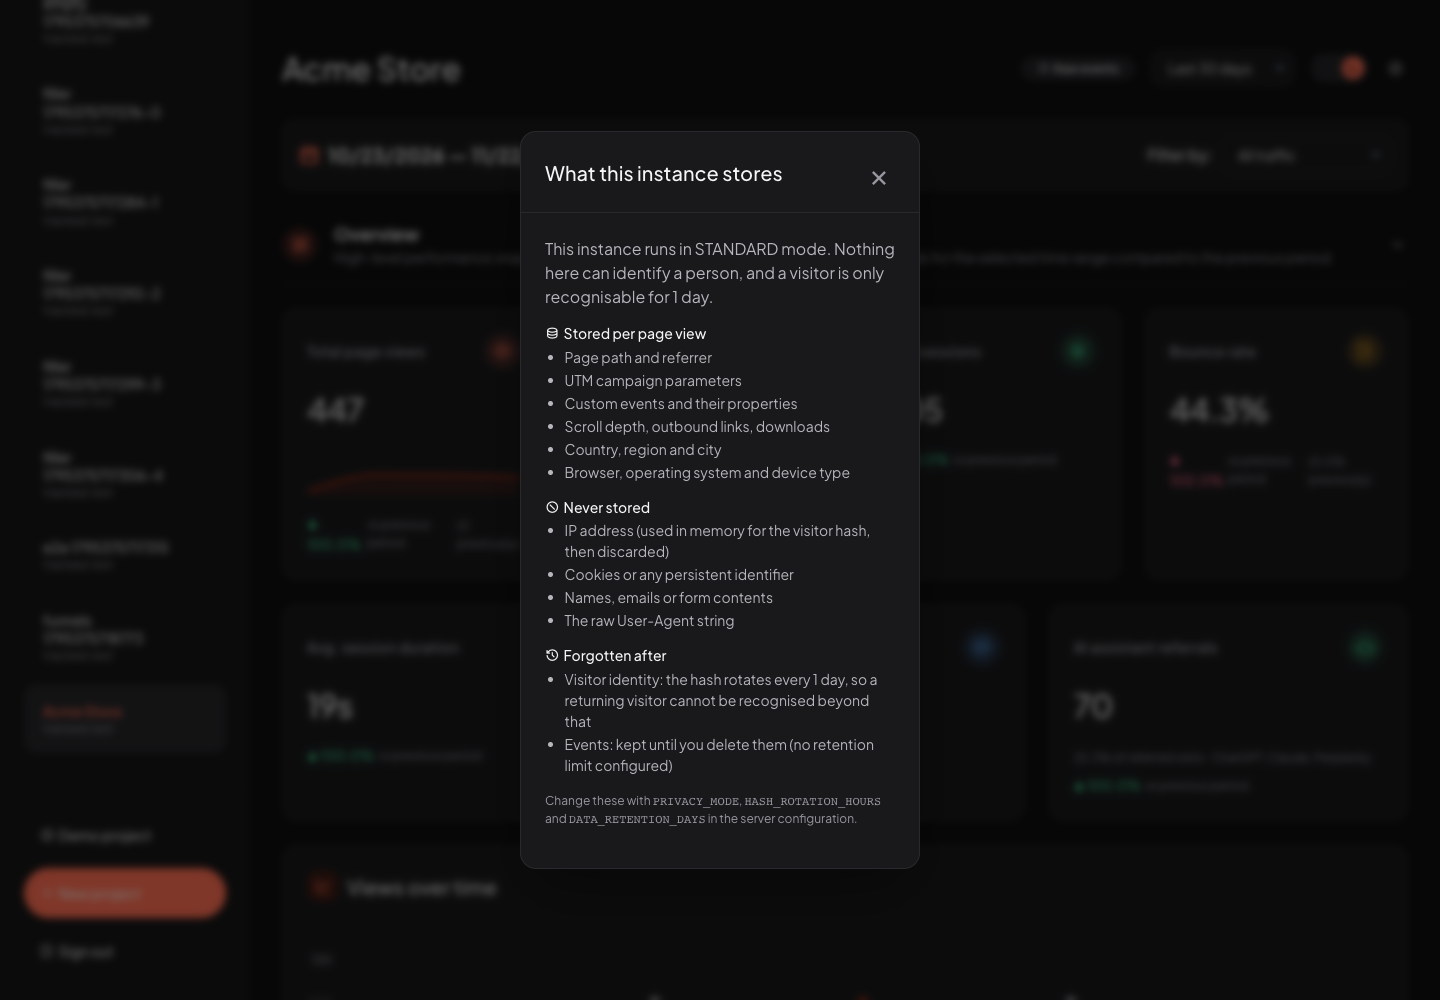
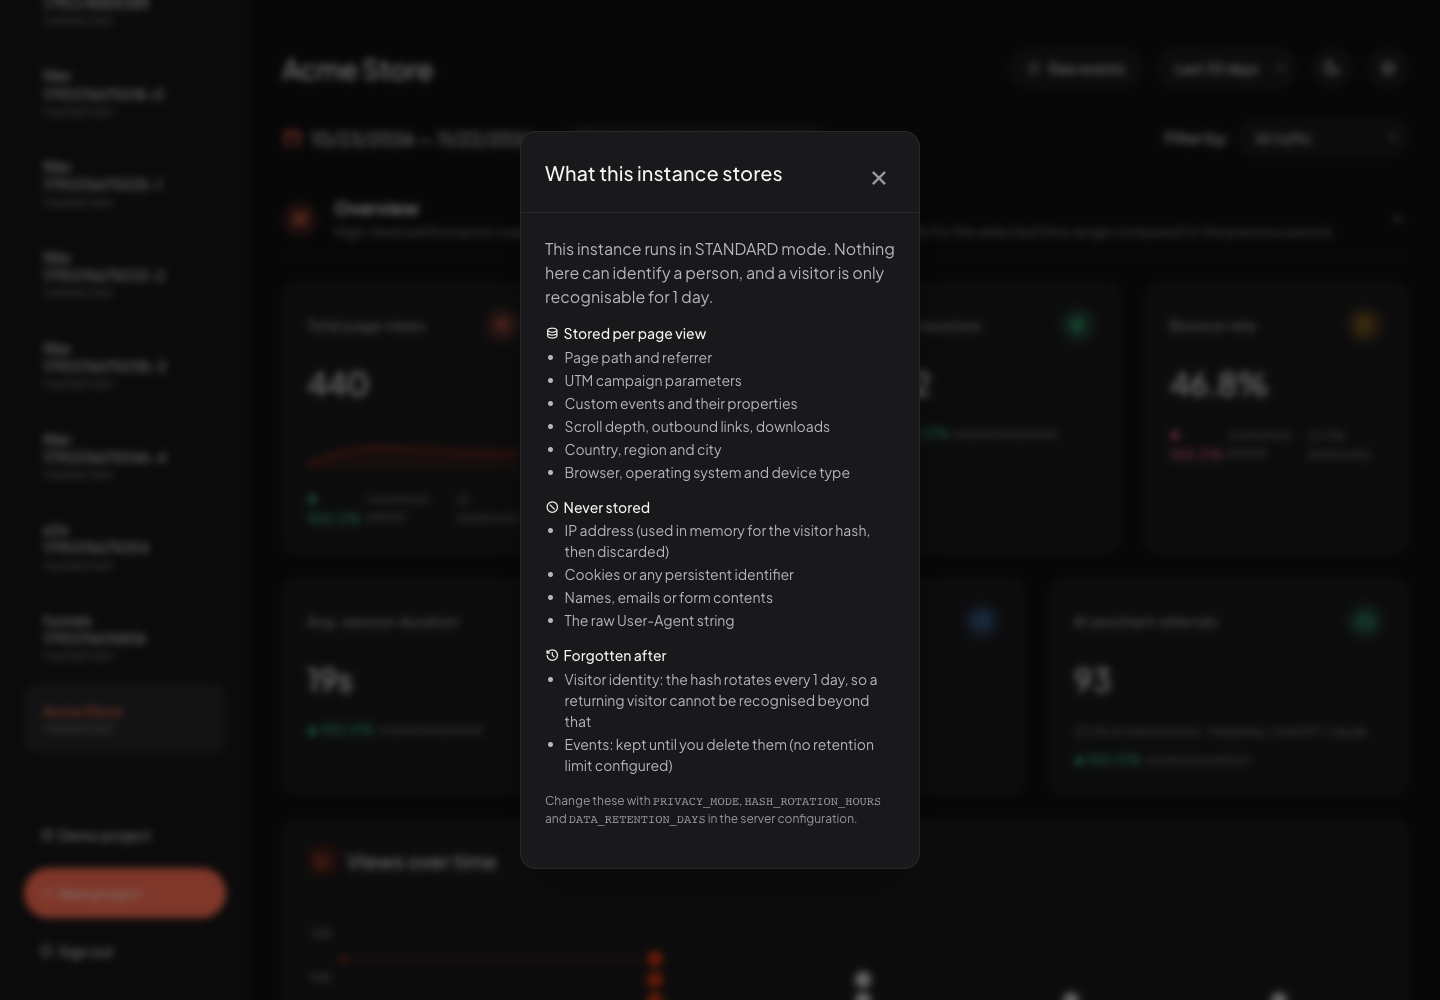
Restyle the dashboard top bar
Raw events and the time range are pills, the theme switch and Settings
are round icon buttons of one height, and the date range and filter sit
under the bar as a plain row. On a phone the controls wrap under the
project name, which now clears the menu button.

Claude-Session: https://claude.ai/code/session_01GuupkTZhZNqQKFXJpTZdVo

diff --git a/src/main/resources/static/css/components.css b/src/main/resources/static/css/components.css
@@ -2984,6 +2984,95 @@ tbody tr {
 }
 
 /* ============================================
+   TOP BAR
+   The project title on the left; on the right a row of controls of one height: pills for the
+   ones with a label, circles for the ones that are only an icon.
+   ============================================ */
+
+.dashboard-header h1 {
+  font-size: var(--font-size-2xl-plus);
+  letter-spacing: var(--letter-spacing-snug);
+}
+
+.dashboard-header .select,
+.dashboard-header .btn-secondary,
+.dashboard-header .btn-icon,
+.dashboard-header .theme-toggle {
+  height: var(--control-height);
+  border: 1px solid var(--color-border);
+  background-color: var(--color-bg-secondary);
+  color: var(--color-text-primary);
+  transition: background-color var(--transition-fast), border-color var(--transition-fast);
+}
+
+.dashboard-header .select,
+.dashboard-header .btn-secondary {
+  border-radius: var(--radius-full);
+  padding-top: 0;
+  padding-bottom: 0;
+  font-size: var(--font-size-sm);
+  font-weight: var(--font-weight-medium);
+}
+
+.dashboard-header .btn-secondary { padding-left: var(--spacing-md); padding-right: var(--spacing-md); gap: var(--spacing-sm); }
+.dashboard-header .select { padding-left: var(--spacing-md); }
+
+.dashboard-header .btn-icon,
+.dashboard-header .theme-toggle {
+  width: var(--control-height);
+  border-radius: var(--radius-circle);
+  font-size: var(--font-size-lg);
+}
+
+.dashboard-header .select:hover,
+.dashboard-header .btn-secondary:hover:not(:disabled),
+.dashboard-header .btn-icon:hover,
+.dashboard-header .theme-toggle:hover {
+  background-color: var(--color-bg-tertiary);
+  border-color: var(--color-border-dark);
+}
+
+.dashboard-header .btn-icon,
+.dashboard-header .theme-toggle,
+.dashboard-header .btn-secondary {
+  flex-shrink: 0;
+}
+.dashboard-header .select { width: auto; }
+
+/* On a phone the controls wrap under the title, and the title clears the menu button */
+@media (max-width: 640px) {
+  .dashboard-header > div { flex-wrap: wrap; }
+  .dashboard-header h1 { padding-left: calc(var(--control-height) + var(--spacing-md)); }
+}
+
+/* The theme switch is a round button showing the current theme's icon, not a sliding knob */
+.dashboard-header .theme-toggle { justify-content: center; }
+.dashboard-header .theme-toggle__slider,
+[data-theme="dark"] .dashboard-header .theme-toggle__slider {
+  position: static;
+  width: auto;
+  height: auto;
+  background: none;
+  color: inherit;
+  font-size: inherit;
+  transform: none;
+}
+
+/* The date range and filters sit under the top bar as a plain row, not a boxed bar */
+.filter-bar {
+  padding: 0;
+  background: transparent;
+  border-radius: 0;
+  border: none;
+  margin-bottom: var(--spacing-xl);
+}
+.filter-bar__date-range {
+  font-size: var(--font-size-lg);
+  font-weight: var(--font-weight-medium);
+}
+.filter-bar .select { border-radius: var(--radius-full); }
+
+/* ============================================
    SHARED PIECES
    Used by the dialogs and the setup wizard in place of inline styles.
    ============================================ */

diff --git a/src/main/resources/static/css/variables.css b/src/main/resources/static/css/variables.css
@@ -307,6 +307,7 @@
 
   --sidebar-width: 250px;
   --header-height: 60px;
+  --control-height: 40px;          /* buttons and selects in the top bar */
   --max-content-width: 1400px;
   --skeleton-width: 60px;           /* placeholder bar while a number loads */
   --skeleton-width-sm: 50px;

diff --git a/_docs/CHANGELOG.md b/_docs/CHANGELOG.md
@@ -9,6 +9,10 @@ and this project adheres to [Semantic Versioning](https://semver.org/spec/v2.0.0
 
 ### Changed
 
+- **A tidier top bar.** Raw events and the time range are pills, the theme switch and Settings are round icon
+  buttons of the same height (the theme switch shows the current theme's icon instead of a sliding knob), and
+  the date range and filter sit under it as a plain row instead of a boxed bar. On a phone the controls wrap
+  under the project name, which no longer sits under the menu button.
 - **A new typeface, Plus Jakarta Sans**, across the dashboard, login page, setup wizard and landing site, bundled
   with the app (SIL Open Font License) so no page calls a font service. Chart labels and tooltips use it too.
 - **"Views over time" is a dot-matrix chart**: one column of dots per day or hour, the tallest in the accent
